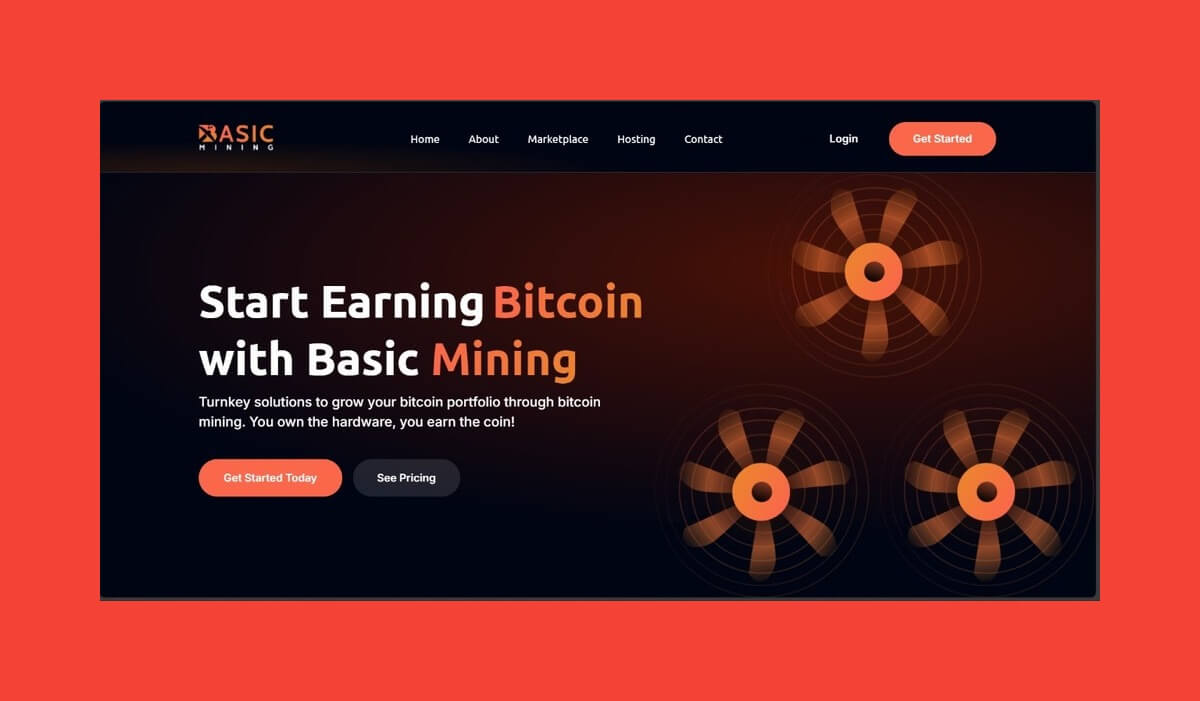
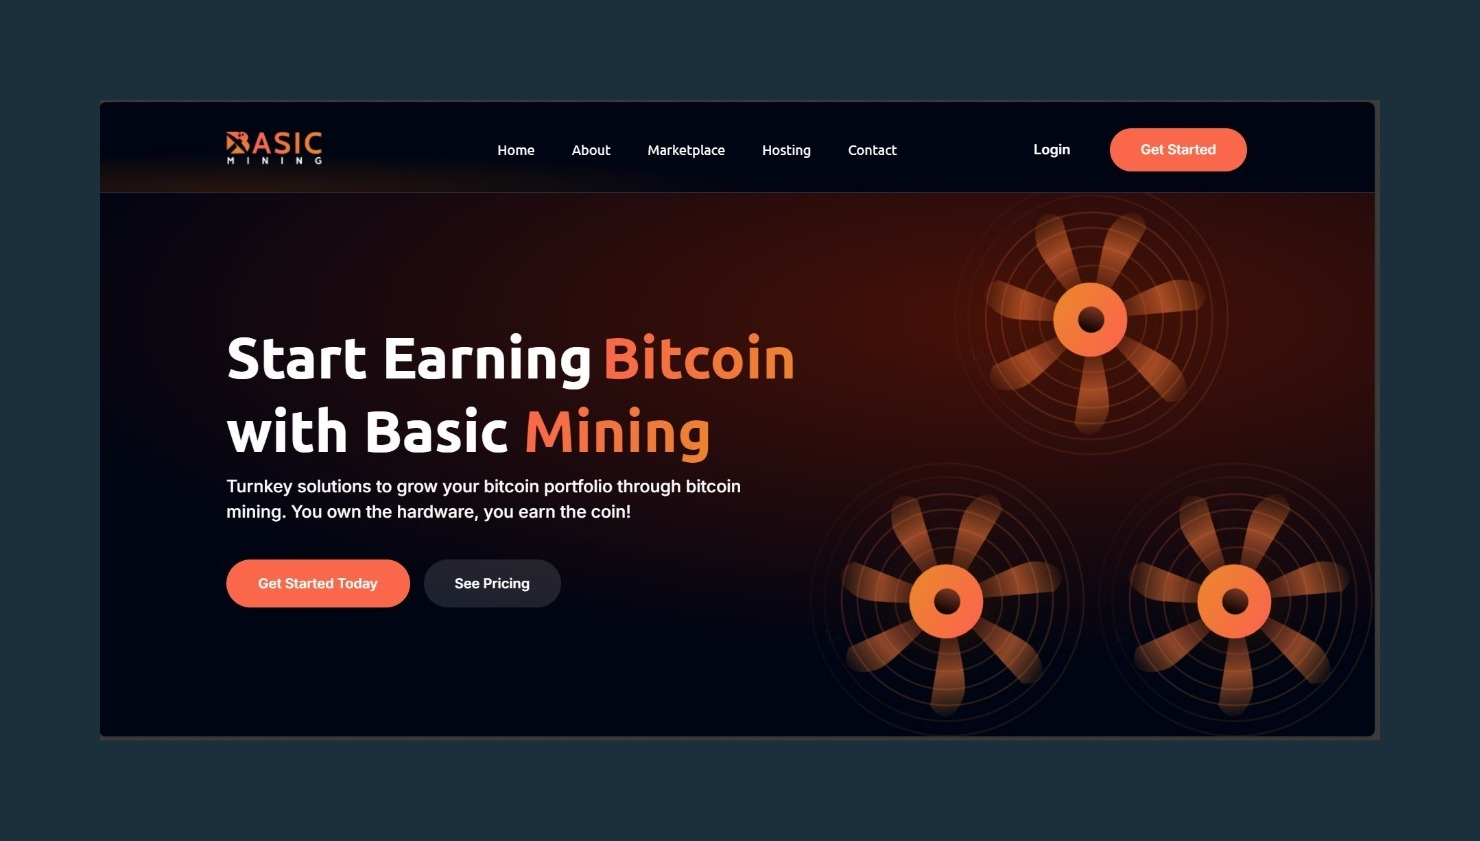
images added and experience modify

diff --git a/src/assets/data/portfolioData.js b/src/assets/data/portfolioData.js
@@ -1,5 +1,4 @@
-import portfolioImg01 from "../images/portfolio-01.jpg";
-import portfolioImg02 from "../images/portfolio-02.jpg";
+
 import portfolioImg04 from "../images/portfolio-04.jpg";
 import portfolioImg05 from "../images/portfolio-05.jpg";
 import portfolioImg06 from "../images/portfolio-06.jpg";
@@ -17,38 +16,38 @@ const portfolios = [
     category: "Web Design",
     title: "EdTech Games Website",
     description:
-      "Lorem ipsum dolor sit, amet consectetur adipisicing elit. Praesentium vitae sunt magnam numquam esse ipsam? Quis qui enim, temporibus dignissimos atque repellendus amet a velit. Dolorem quidem animi doloribus saepe!",
-    technologies: ["React", "Tailwind css", "Node.js", "MongoDB"],
+      "EdTechGames seamlessly integrates learning and play, using data to personalize educational experiences while securely handling user activity and study patterns. Our platform fosters collaborative learning, making education engaging and effective.",
+    technologies: ["HTML", "Angular14", "SASS", "Typescript", "Angular Material UI", "Bootstrap"],
     siteUrl: "https://edtechgames.com/",
   },
   {
     id: "02",
     imgUrl: portfolioImg10,
     category: "Ux",
-    title: "Video Conference Website",
+    title: "EdTech Games Login",
     description:
-      "Lorem ipsum dolor sit, amet consectetur adipisicing elit. Praesentium vitae sunt magnam numquam esse ipsam? Quis qui enim, temporibus dignissimos atque repellendus amet a velit. Dolorem quidem animi doloribus saepe!",
-    technologies: ["React", "Tailwind css", "Node.js", "MongoDB"],
+      "Welcome to the EdTech Games login page, your gateway to interactive learning through fun and educational games. Sign in to unlock a world of engaging activities that make education exciting and effective.",
+    technologies: ["HTML", "Angular14", "SASS", "Typescript", "Angular Material UI", "Bootstrap"],
     siteUrl: "https://login.edtechgames.com/login",
   },
   {
     id: "03",
     imgUrl: portfolioImg04,
     category: "Web Design",
-    title: "Zamplia.com",
+    title: "Zamplia",
     description:
-      "Lorem ipsum dolor sit, amet consectetur adipisicing elit. Praesentium vitae sunt magnam numquam esse ipsam? Quis qui enim, temporibus dignissimos atque repellendus amet a velit. Dolorem quidem animi doloribus saepe!",
-    technologies: ["React", "Tailwind css", "Node.js", "MongoDB"],
+      "Simplify your research projects. Easily find and choose the best respondent sources, all in one place, to save money, ensure feasibility, and maintain high quality.",
+    technologies: ["HTML", "CSS", "Javascript", "Azure Functions", "React.js","React Bootstrap", "Redux", "Node.js", "MySQL"],
     siteUrl: "https://zamplia.com/",
   },
   {
     id: "04",
     imgUrl: portfolioImg08,
     category: "Ux",
-    title: "Restaurent Website",
+    title: "Dine Time",
     description:
-      "Lorem ipsum dolor sit, amet consectetur adipisicing elit. Praesentium vitae sunt magnam numquam esse ipsam? Quis qui enim, temporibus dignissimos atque repellendus amet a velit. Dolorem quidem animi doloribus saepe!",
-    technologies: ["React", "Tailwind css", "Node.js", "MongoDB"],
+      "DineTime is your go-to platform for seamless table reservations and exploring a variety of dining options, ensuring a perfect culinary experience. Book your table effortlessly and discover the best restaurants in town with just a few clicks.",
+    technologies: ["HTML", "CSS", "Javascript", "React", "Node.js", "MongoDB"],
     siteUrl: "https://restaurant-mern-app-frontend.onrender.com",
   },
   {
@@ -57,8 +56,8 @@ const portfolios = [
     category: "Ux",
     title: "Drikpanchang.com",
     description:
-      "Lorem ipsum dolor sit, amet consectetur adipisicing elit. Praesentium vitae sunt magnam numquam esse ipsam? Quis qui enim, temporibus dignissimos atque repellendus amet a velit. Dolorem quidem animi doloribus saepe!",
-    technologies: ["React", "Tailwind css", "Node.js", "MongoDB"],
+      "DrinkPanchang.com offers daily and weekly Kundali insights, along with detailed Rashiphal predictions, helping you stay aligned with cosmic energies. Explore the origins and significance of various festivals, making every celebration meaningful and informed.",
+    technologies: ["HTML", "CSS", "Javascript", "PHP", "C++"],
     siteUrl: "https://www.drikpanchang.com",
   },
 
@@ -68,8 +67,8 @@ const portfolios = [
     category: "Ux",
     title: "Dimitri",
     description:
-      "Lorem ipsum dolor sit, amet consectetur adipisicing elit. Praesentium vitae sunt magnam numquam esse ipsam? Quis qui enim, temporibus dignissimos atque repellendus amet a velit. Dolorem quidem animi doloribus saepe!",
-    technologies: ["React", "Tailwind css", "Node.js", "MongoDB"],
+      "Dimitra’s Connected Farmer platform empowers small farmers globally to track activities, receive detailed reports, and access recommendations that enhance profitability and living standards.",
+    technologies: ["HTML", "SCSS", "Typescript", "Angular", "Angular Material", "Bootstrap", "Node.js", "MySQL"],
     siteUrl: "https://dimitra.io/",
   },
   {
@@ -78,79 +77,29 @@ const portfolios = [
     category: "Web Design",
     title: "Omni Food",
     description:
-      "Lorem ipsum dolor sit, amet consectetur adipisicing elit. Praesentium vitae sunt magnam numquam esse ipsam? Quis qui enim, temporibus dignissimos atque repellendus amet a velit. Dolorem quidem animi doloribus saepe!",
+      "Omni Food is your ultimate recipe hub, allowing you to search and discover a wide variety of delicious dishes. Find the perfect recipe for any occasion with just a few clicks.",
     technologies: ["HTML", "css", "Javascript"],
     siteUrl: "https://recipe-app-y7c1.onrender.com",
   },
   {
     id: "08",
-    imgUrl: portfolioImg01,
+    imgUrl: portfolioImg11,
     category: "Web Design",
-    title: "Finance Technology Website",
+    title: "Basic Mining",
     description:
-      "Lorem ipsum dolor sit, amet consectetur adipisicing elit. Praesentium vitae sunt magnam numquam esse ipsam? Quis qui enim, temporibus dignissimos atque repellendus amet a velit. Dolorem quidem animi doloribus saepe!",
-    technologies: ["React", "Tailwind css", "Node.js", "MongoDB"],
-    siteUrl: "#",
+      "Start earning Bitcoin with basic Mining. Turnkey solutions to grow your bitcoin portfolio through bitcoin mining. You own the hardware, you earn the coin!",
+    technologies: ["React", "Tailwind css", "Node.js", "MySQL"],
+    siteUrl: "http://Basicmining.com",
   },
   {
     id: "09",
     imgUrl: portfolioImg12,
     category: "Ux",
-    title: "STUK Website",
+    title: "STUK",
     description:
-      "Lorem ipsum dolor sit, amet consectetur adipisicing elit. Praesentium vitae sunt magnam numquam esse ipsam? Quis qui enim, temporibus dignissimos atque repellendus amet a velit. Dolorem quidem animi doloribus saepe!",
-    technologies: ["React", "Tailwind css", "Node.js", "MongoDB"],
-    siteUrl: "#",
-  },
-  {
-    id: "10",
-    imgUrl: portfolioImg11,
-    category: "Basic Mining Website",
-    title: "File Sharing Website",
-    description:
-      "Lorem ipsum dolor sit, amet consectetur adipisicing elit. Praesentium vitae sunt magnam numquam esse ipsam? Quis qui enim, temporibus dignissimos atque repellendus amet a velit. Dolorem quidem animi doloribus saepe!",
-    technologies: ["React", "Tailwind css", "Node.js", "MongoDB"],
-    siteUrl: "#",
-  },
-  {
-    id: "11",
-    imgUrl: portfolioImg04,
-    category: "Web Design",
-    title: "Landing Page",
-    description:
-      "Lorem ipsum dolor sit, amet consectetur adipisicing elit. Praesentium vitae sunt magnam numquam esse ipsam? Quis qui enim, temporibus dignissimos atque repellendus amet a velit. Dolorem quidem animi doloribus saepe!",
-    technologies: ["React", "Tailwind css", "Node.js", "MongoDB"],
-    siteUrl: "#",
-  },
-  {
-    id: "12",
-    imgUrl: portfolioImg05,
-    category: "Web Design",
-    title: "Landing Page",
-    description:
-      "Lorem ipsum dolor sit, amet consectetur adipisicing elit. Praesentium vitae sunt magnam numquam esse ipsam? Quis qui enim, temporibus dignissimos atque repellendus amet a velit. Dolorem quidem animi doloribus saepe!",
-    technologies: ["React", "Tailwind css", "Node.js", "MongoDB"],
-    siteUrl: "#",
-  },
-  {
-    id: "13",
-    imgUrl: portfolioImg06,
-    category: "Web Design",
-    title: "Online Therapy Website",
-    description:
-      "Lorem ipsum dolor sit, amet consectetur adipisicing elit. Praesentium vitae sunt magnam numquam esse ipsam? Quis qui enim, temporibus dignissimos atque repellendus amet a velit. Dolorem quidem animi doloribus saepe!",
-    technologies: ["React", "Tailwind css", "Node.js", "MongoDB"],
-    siteUrl: "#",
-  },
-  {
-    id: "14",
-    imgUrl: portfolioImg07,
-    category: "ux",
-    title: "Appointment Booking Website",
-    description:
-      "Lorem ipsum dolor sit, amet consectetur adipisicing elit. Praesentium vitae sunt magnam numquam esse ipsam? Quis qui enim, temporibus dignissimos atque repellendus amet a velit. Dolorem quidem animi doloribus saepe!",
-    technologies: ["React", "Tailwind css", "Node.js", "MongoDB"],
-    siteUrl: "#",
+      "STUK offers a complete towing & roadside assistance management software. We developed this software placing the business first, allowing a trouble free and transparent service to the customer.",
+    technologies: ["Angular", "SCSS", "Angular Material", "Node.js", "MySQL"],
+    siteUrl: "https://www.stuksoftware.com/",
   },
 ];
 

diff --git a/src/components/Profile/PRofile.jsx b/src/components/Profile/PRofile.jsx
@@ -122,7 +122,7 @@ md:flex-col  md:justify-end md:text-end"
           >
             <div className="mb-10">
               <h2 className="text-headingColor font-[700] text-[32px]">
-                <CountUp start={0} end={3.6} duration={3} suffix="+" />
+                <CountUp start={0} end={5} duration={3} suffix="+" />
               </h2>
               <h4 className="text-headingColor font-[500] text-[18px]">
                 Years of Experience
